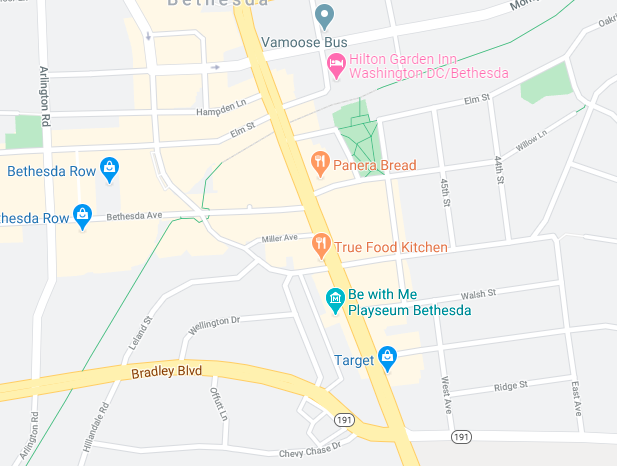
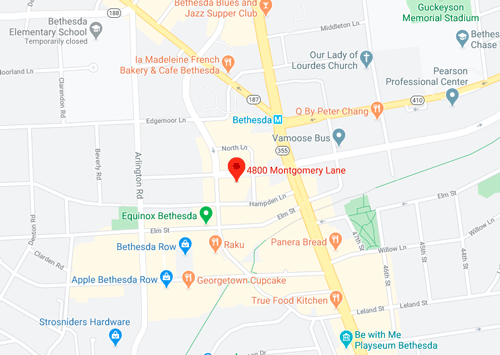
Mostly there

diff --git a/templeInn/contact.html b/templeInn/contact.html
@@ -1,0 +1,104 @@
+<!DOCTYPE html>
+<html lang="en">
+
+<head>
+    <meta charset="UTF-8">
+    <meta name="viewport" content="width=device-width, initial-scale=1.0">
+    <title>Contact Us</title>
+    <link rel="stylesheet" href="https://cdnjs.cloudflare.com/ajax/libs/font-awesome/4.7.0/css/font-awesome.min.css">
+    <link rel="stylesheet" href="./css/normalize.css">
+    <link rel="stylesheet" href="./css/style.css">
+    <link rel="icon" href="./img/Salt_Lake_Temple_Silhouette.png" />
+</head>
+
+<body>
+    <!-- HEADER -->
+    <header>
+        <div class="row blueRow">
+            <h1>Temple Inn & Suites</h1>
+            <img src="./img/Salt_Lake_Temple_Silhouette.svg" id="temple-logo" alt="Salt Lake Temple Silhouette">
+        </div>
+    </header>
+
+    <!-- NAV -->
+    <nav>
+        <ul class="navigation">
+            <li><a class="ham" href="#">&#9776; Menu</a></li>
+            <li><a href="./index.html">Home</a></li>
+            <li><a href="./temple.html">Temples</a></li>
+            <li><a href="./services.html">Services</a></li>
+            <li><a href="./reservation.html">Reserve Now</a></li>
+            <li><a href="./contact.html" class="active-page">Contact Us</a></li>
+        </ul>
+
+    </nav>
+
+    <!-- MAIN -->
+    <main>
+        <div class="row">
+            <h2>Contact Us</h2>
+            <div class="width-wrapper">
+                <form action="./thanks.html" id="contactUs">
+                    <div class="form-item">
+                        <label for="fName">First Name</label>
+                        <input type="text" pattern="[a-zA-Z\s]+" name="fName" id="fName" minlength="5" required>
+                        <p id="fullNameHelp">**Name must be more than 5 characters. No numbers**</p>
+                    </div>
+
+                    <div class="form-item">
+                        <label for="lName">Last Name</label>
+                        <input type="text" id="lName" required>
+                    </div>
+
+                    <div class="form-item">
+                        <label for="email">Email</label>
+                        <input type="text" id="email" required>
+                    </div>
+
+                    <div class="form-item">
+                        <label for="phone">Phone Number</label>
+                        <input type="text" id="phone">
+                    </div>
+                    <button type="submit">Contact Us</button>
+                </form>
+
+            </div>
+        </div>
+        <div class="row ligrayRow">
+            <h2>Where to Find Us</h2>
+            <div class="width-wrapper">
+                <img src="./img/map.png" alt="Map" id="mapImage">
+                <div class="text emphasized-text">
+                    <p>
+                        4800 Montgomery Ln<br>
+                        #300<br>
+                        MD 20814
+                    </p>
+                    <p>
+                        1 (240) 555-5545
+                    </p>
+                    <p>support@templeinn.com</p>
+                    <p>
+                        <i class="fa fa-facebook-square" aria-hidden="true"><a href="#"></a></i>
+                        <i class="fa fa-pinterest-square" aria-hidden="true"><a href="#"></a></i>
+                        <i class="fa fa-twitter-square" aria-hidden="true"><a href="#"></a></i>
+                        <i class="fa fa-linkedin-square" aria-hidden="true"><a href="#"></a></i>
+                    </p>
+                </div>
+            </div>
+        </div>
+
+        </div>
+
+    </main>
+
+    <!-- FOOTER -->
+    <div class="row ligrayRow">
+        <footer>
+            <span><a href="./resources.html">Resources</a></span>
+        </footer>
+    </div>
+    <script src="./js/main.js"></script>
+</body>
+
+</html>

diff --git a/templeInn/services.html b/templeInn/services.html
@@ -24,17 +24,43 @@
     <nav>
         <ul class="navigation">
             <li><a class="ham" href="#">&#9776; Menu</a></li>
-            <li><a href="./index.html" >Home</a></li>
-            <li><a href="./temple.html" >Temples</a></li>
+            <li><a href="./index.html">Home</a></li>
+            <li><a href="./temple.html">Temples</a></li>
             <li><a href="./services.html" class="active-page">Services</a></li>
             <li><a href="./reservation.html">Reserve Now</a></li>
+            <li><a href="./contact.html">Contact Us</a></li>
         </ul>
 
     </nav>
 
     <!-- MAIN -->
     <main>
-        
+        <!-- BUTTONS -->
+        <div class="row">
+            <h2>What Are You Looking For?</h2>
+            <button onclick="location.href='#reception'">Wedding Reception <br> Services</button>
+            <button onclick="location.href='#fullTime'">Full-Time Missionary <br> Services</button>
+        </div>
+
+        <div class="row ligrayRow" id="reception">
+            <h3>Reception Services</h3>
+            <div class="width-wrapper">
+                <img src="./img/wedding.png" alt="Wedding Catering">
+                <p>Temple Inn & Suites provides world-class catering so you don't have another thing to worry about for your wedding. Need a venue? We've got you covered with various sized rooms to meet your needs. </p>
+                <p>Need help with decorating? We've got you covered with several themes packages as well an in-house interior designer to help.</p>
+                <p>*Note: Only in select locations. Contact us for more details</p>
+            </div>
+        </div>
+
+        <div class="row" id="fullTime">
+            <h3>Full-Time Missionary Services</h3>
+            <div class="width-wrapper reverse">
+                <img src="https://via.placeholder.com/500" alt="Missionary">
+                <p>The last thing you want to worry about when serving a full time mission is worrying about where you're
+                    going to stay for the night. Temple Inn & Suites offers a wide variety of inexpensive options
+                </p>
+            </div>
+        </div>
     </main>
 
     <!-- FOOTER -->

diff --git a/templeInn/index.html b/templeInn/index.html
@@ -30,6 +30,7 @@
             <li><a href="./temple.html">Temples</a></li>
             <li><a href="./services.html">Services</a></li>
             <li><a href="./reservation.html">Reserve Now</a></li>
+            <li><a href="./contact.html">Contact Us</a></li>
         </ul>
 
     </nav>
@@ -101,28 +102,14 @@
 
 
         <!-- CONTACT US -->
-        <div class="row ligrayRow">
-            <h3>Contact Us</h3>
-            <div class="width-wrapper">
-                <img src="./img/map.png" alt="Map" id="mapImage">
-                <div class="text emphasized-text">
-                    <p>
-                        7000 Wisconsin Ave,<br>
-                        Chevy Chase,<br> 
-                        MD 20815
-                    </p>
-                    <p>
-                        1 (240) 555-5545
-                    </p>
-                    <p>support@templeinn.com</p>
-                </div>
-            </div>
+        <div class="row">
+            <button onclick="location.href='./contact.html'">Contact Us</button>
         </div>
 
     </main>
 
     <!-- FOOTER -->
-    <div class="row blueRow">
+    <div class="row ligrayRow footer">
         <footer>
             <span><a href="./resources.html">Resources</a></span>
         </footer>

diff --git a/templeInn/css/style.css b/templeInn/css/style.css
@@ -1,8 +1,11 @@
+@import url('https://fonts.googleapis.com/css2?family=Roboto&family=Roboto+Slab:wght@400;700&display=swap');
 /* ------------------------------- */
 /* STATIC/ALL PAGES */
 
 /* FONT/ALIGNMENT */
-@import url('https://fonts.googleapis.com/css2?family=Roboto&family=Roboto+Slab:wght@400;700&display=swap');
+html {
+    scroll-behavior: smooth;
+}
 
 body {
     margin: 0;
@@ -96,8 +99,8 @@ button:hover {
 
 #mapImage {    
     width: 90%;
-    max-width: 400px;
     height: auto;
+    margin: 0;
 }
 
 /* COLOR */
@@ -120,6 +123,10 @@ button:hover {
 
 .blueRow p {
     color: white;
+}
+
+.footer {
+    border-top: 2px white solid;
 }
 
 /* HEADER */
@@ -222,7 +229,9 @@ nav ul li a:hover {
     padding: 10px;
 }
 
-form
+form {
+    margin: auto;
+}
 
 .form-item p {
     margin: 0;
@@ -238,6 +247,11 @@ textarea {
     border-radius: 5px;
 }
 
+/* --------------------------------- */
+/* CONTACT PAGE */
+#contactUs button {
+    margin-left: 10px;
+}
 
 /* ------------------------------- */
 /* MEDIA QUERIES */

diff --git a/lesson11/preston-10.html b/lesson11/preston-10.html
@@ -114,7 +114,7 @@
                         <p>Rexburg, ID 83460 <br></p>
                         <p>(123) 456-7891<br>support@whatsmyweatherlike.com</p>
                         <p>
-                            <i class="fa fa-facebook-square" aria-hidden="true"></i>
+                            <i class="fa-lg fa-facebook-square" aria-hidden="true"></i>
                             <i class="fa fa-pinterest-square" aria-hidden="true"></i>
                             <i class="fa fa-twitter-square" aria-hidden="true"></i>
                             <i class="fa fa-linkedin-square" aria-hidden="true"></i>

diff --git a/templeInn/reservation.html b/templeInn/reservation.html
@@ -28,6 +28,7 @@
             <li><a href="./temple.html">Temples</a></li>
             <li><a href="./services.html">Services</a></li>
             <li><a href="./reservation.html" class="active-page">Reserve Now</a></li>
+            <li><a href="./contact.html">Contact Us</a></li>
         </ul>
 
     </nav>

diff --git a/templeInn/temple.html b/templeInn/temple.html
@@ -28,6 +28,7 @@
             <li><a href="./temple.html" class="active-page">Temples</a></li>
             <li><a href="./services.html">Services</a></li>
             <li><a href="./reservation.html">Reserve Now</a></li>
+            <li><a href="./contact.html">Contact Us</a></li>
         </ul>
 
     </nav>
